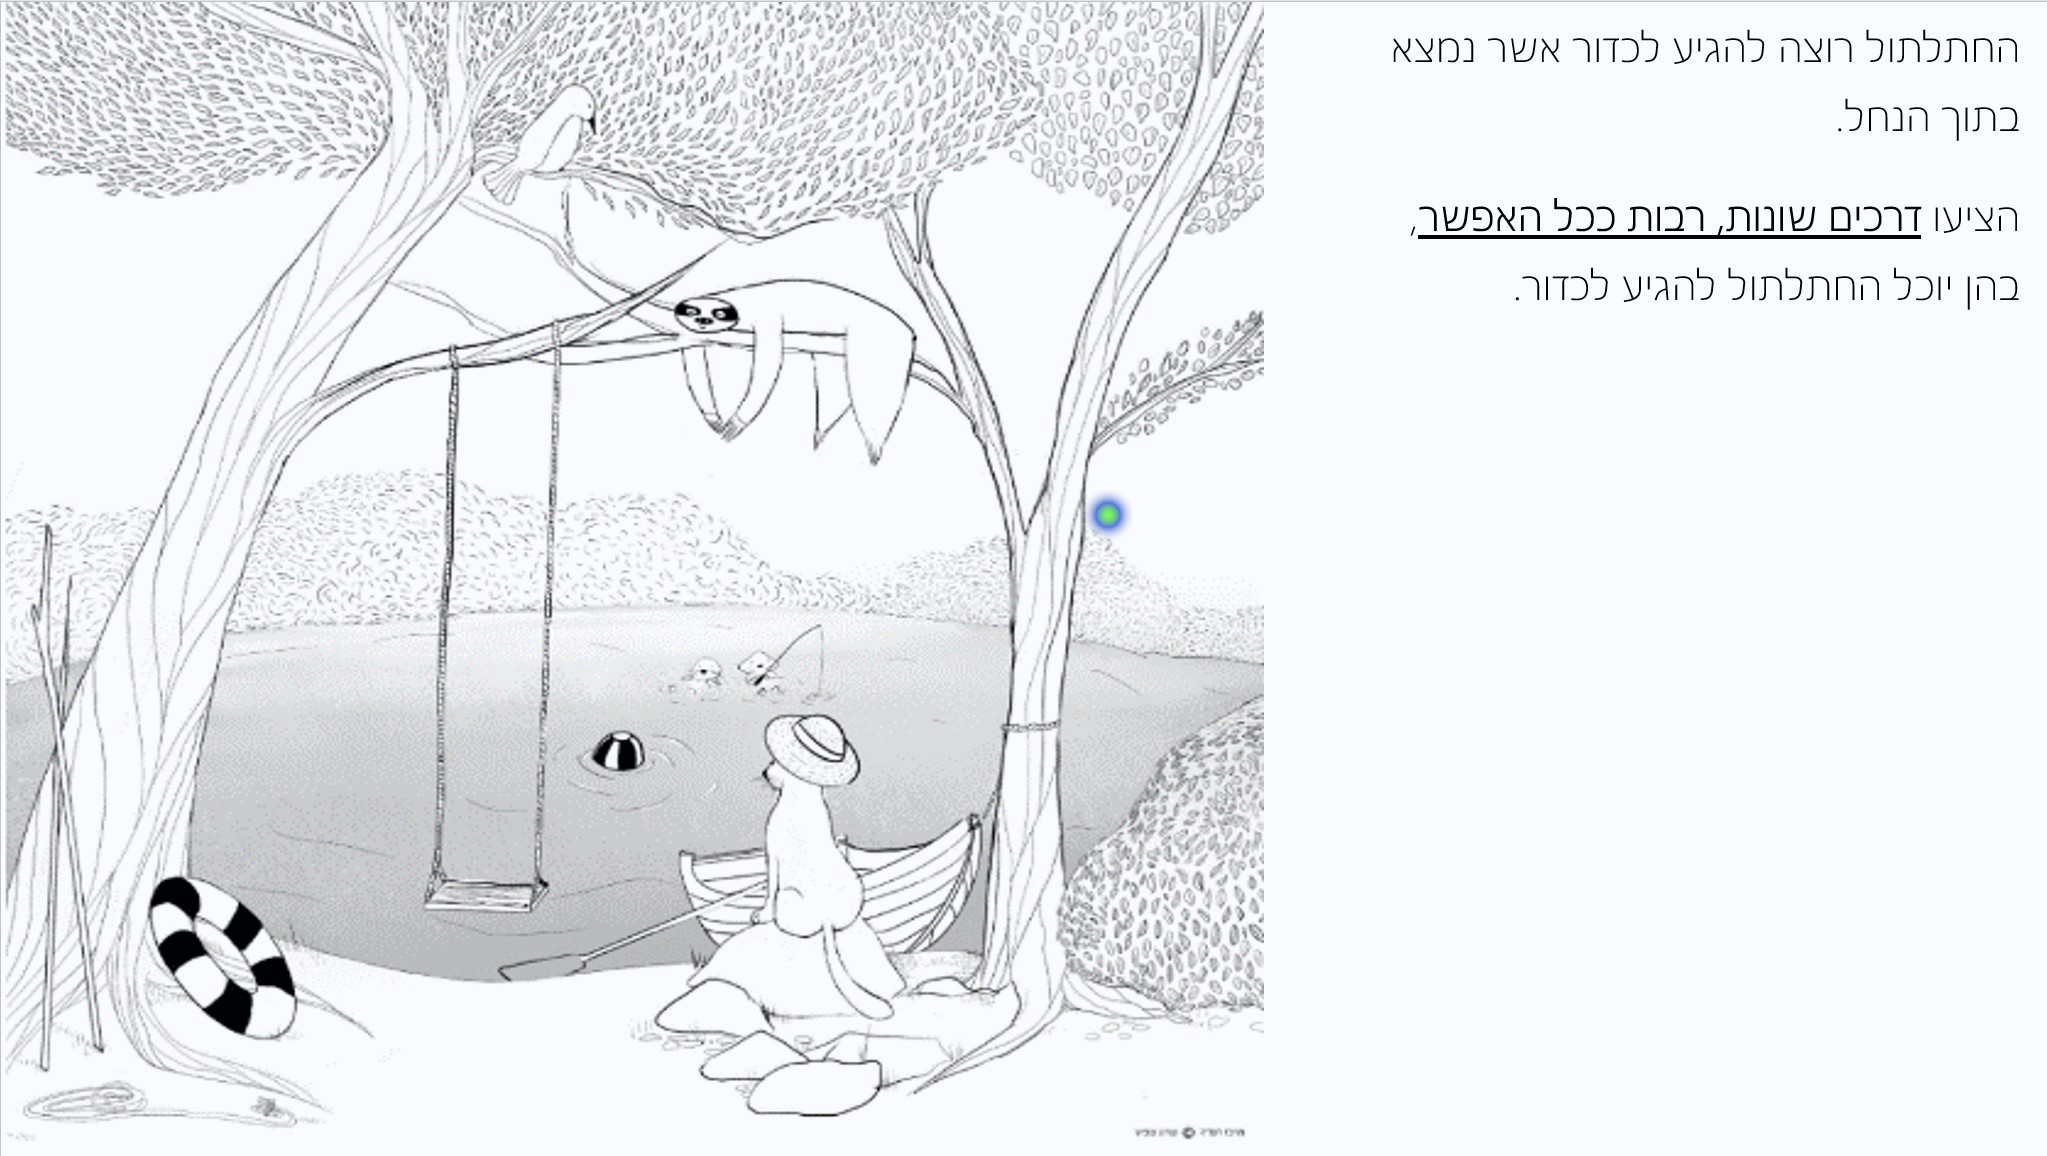
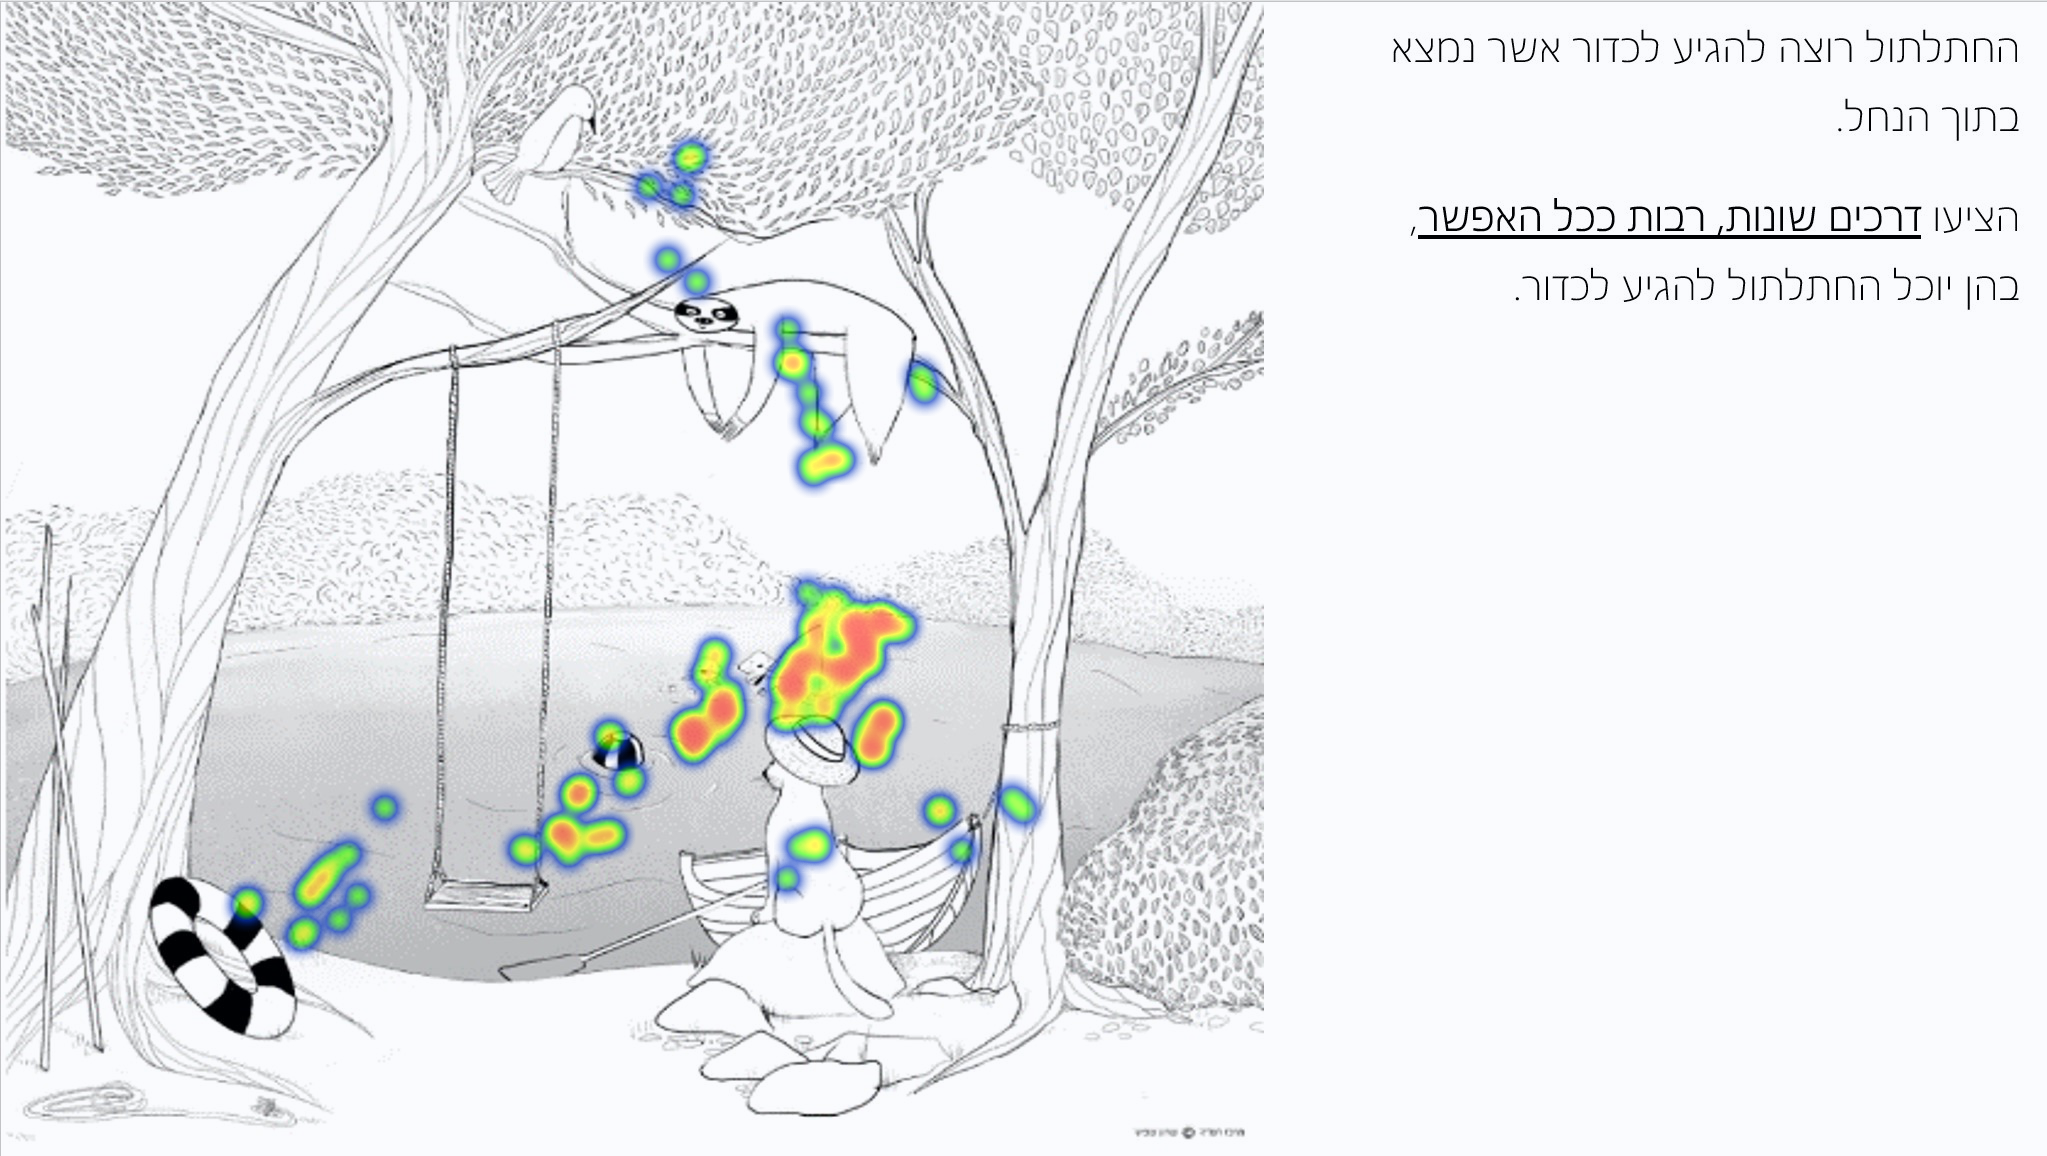
Using Hard coded coordinate to extract clusters

diff --git a/MeanShift.py b/MeanShift.py
@@ -10,16 +10,25 @@ from Utils import background_images, WIDTHS, HEIGHTS, subjects_dict, input_fixat
 import cv2
 
 figure_counter = 0  # keep 0 please
-
+HARD_CODED = True # if False you can choose directly from image
+HARD_CODED_CLUSTERS = [None,
+                       [[[473, 1088], [474, 942], [623, 942], [618, 1079]],
+                        [[642, 910], [651, 712], [922, 676], [965, 857]],
+                        [[750, 456], [733, 192], [916, 179], [918, 445]],
+                        [[679, 455], [666, 225], [398, 218], [412, 448]],
+                        [[125, 304], [121, 108], [314, 93], [330, 262]]],
+                       [[[47, 929], [48, 509], [258, 509], [256, 930]],
+                                    [[253, 932], [256, 508], [466, 512], [467, 931]],
+                       [[586, 935], [586, 510], [995, 510], [995, 932]]], None]
 DRAW_PUPIL_MEAN_HISTOGRAM = False
 CREATE_CLUSTERS = False  # when true - clusters will be estimated from the data. when False, clusters will be loaded.
 USE_KNN = False  # when true - points will get labels using K Nearest neighbors
-SAVE_DATA = True  # When true - saves all (x, y)
+SAVE_DATA = False  # When true - saves all (x, y)
 NEAREST_NEIGHBOR_K = 9
 CLUSTER_RADIUS = [-1, -1, -1,
                   -1]  # any non-negative number means this will use the fixed value given. If a negative value, then an automatic radius (bandwidth) estimation is performed
 
-NUM_OF_AOI = [2, 3, 4, 3]
+NUM_OF_AOI = [2, 5, 3, 3]
 
 
 class Rect:
@@ -327,19 +336,25 @@ def run_analysis():
             CLUSTERS = []
             labels = []
             n_clusters_ = NUM_OF_AOI[question_idx] + 1
-
-            for i in range(NUM_OF_AOI[question_idx]):
-                AOI = []
-                cv2.imshow('image', img)
-                cv2.setMouseCallback('image', click_event)
-                cv2.waitKey(0)
-                cv2.destroyAllWindows()
-                CLUSTERS.append(AOI)
-
-            #   Convert AOI to Polygon
             polygons = []
-            for i in range(NUM_OF_AOI[question_idx]):
-                polygons.append(Polygon(CLUSTERS[i]))
+
+            if HARD_CODED:
+                #   Convert AOI to Polygon
+                for i in range(NUM_OF_AOI[question_idx]):
+                    polygons.append(Polygon(HARD_CODED_CLUSTERS[question_idx][i]))
+
+            else:
+                for i in range(NUM_OF_AOI[question_idx]):
+                    AOI = []
+                    cv2.imshow('image', img)
+                    cv2.setMouseCallback('image', click_event)
+                    cv2.waitKey(0)
+                    cv2.destroyAllWindows()
+                    CLUSTERS.append(AOI)
+
+                #   Convert AOI to Polygon
+                for i in range(NUM_OF_AOI[question_idx]):
+                    polygons.append(Polygon(CLUSTERS[i]))
 
             #   Matching labels to each point
             for coordinate in XY_ONLY:

diff --git a/Heatmap/HeatMapGenerator.py b/Heatmap/HeatMapGenerator.py
@@ -8,7 +8,7 @@ import cv2
 from Utils import background_images, WIDTHS, HEIGHTS, subjects_dict, input_fixations_directory
 
 
-QUESTION_IDX = 1
+QUESTION_IDX = 2
 HM_INTERVAL = 1
 filename = background_images[QUESTION_IDX]
 CRED = '\33[32m'
@@ -31,7 +31,7 @@ def produce_interval_heatmap():
         if current_subject_time is None:
             continue
         df = pd.read_csv(input_points)
-        interval = HM_INTERVAL    # Number of seconds
+        interval = current_subject_time[1] - current_subject_time[0]    # Number of seconds
         num_rows = len(df)
         normalize_time = df['start_timestamp'].iloc[0]
         df['start_timestamp'] -= normalize_time
@@ -52,14 +52,16 @@ def produce_interval_heatmap():
                 img_list.append(heatmapper.heatmap_on_img(current_points, img))
             idx += 1
 
-        out = cv2.VideoWriter(f'Interval-HeatMap-Question-{QUESTION_IDX}-Subject-'+subject.split('_')[0]+'.mp4', cv2.VideoWriter_fourcc(*'mp4v'), 1, size)
-
-        for i in range(len(img_list)):
-            img_list[i].save('heatmap.png')
-            for j in range(5):
-                img = cv2.imread('heatmap.png')
-            out.write(img)
-        out.release()
+        img_list[0].save('Question_3_heatmap_1.png')
+        # Uncomment for video
+        # out = cv2.VideoWriter(f'Interval-HeatMap-Question-{QUESTION_IDX}-Subject-'+subject.split('_')[0]+'.mp4', cv2.VideoWriter_fourcc(*'mp4v'), 1, size)
+        #
+        # for i in range(len(img_list)):
+        #     img_list[i].save('heatmap.png')
+        #     for j in range(5):
+        #         img = cv2.imread('heatmap.png')
+        #     out.write(img)
+        # out.release()
 
 
 if __name__ == '__main__':

diff --git a/Utils.py b/Utils.py
@@ -20,14 +20,14 @@ subjects_dict = {
     # '009': [None, None, None, None]
     # ##########################################################33
     '002':  [None, None, None, None],
-    '003':  [None, (368, 480), (493, 613), None],
-    '004':  [None, (251, 380), (394, 560), None],
-    '005':  [None, (385, 523), (536, 649), None],
+    '003':  [None, None, None, None],
+    '004':  [None, None, None, None],
+    '005':  [None, (418, 435), None, None],
     '006':  [None, None, None, None],
-    '007':  [None, (361, 450), (468, 620), None],
-    '008':  [None, (560, 701), (720, 930), None],
-    '009':  [None, (460, 550), (584, 714), None],
-    '1000': [None, (203, 303), (316, 414), None]
+    '007':  [None, None, None, None],
+    '008':  [None, None, None, None],
+    '009':  [None, None, None, None],
+    '1000': [None, None, None, None],
 }
 
 
